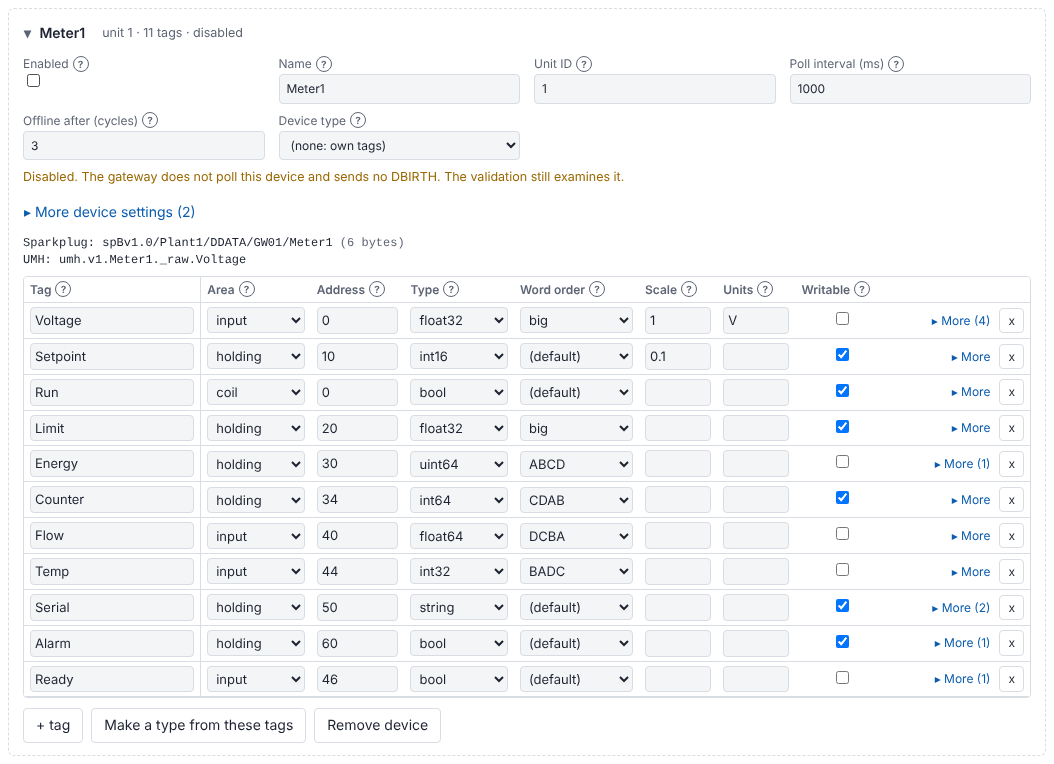
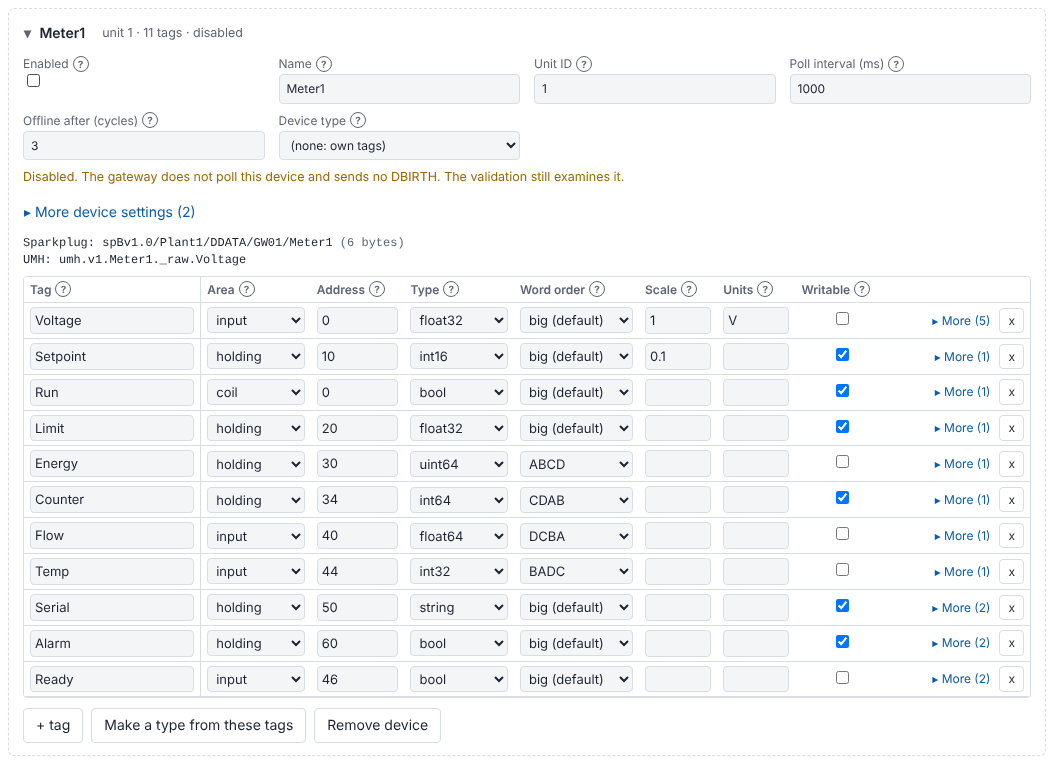
docs: screenshots with the default value in the selects; backup brokers on a phone
make_shots.sh again on the QEMU images of 2d6cf3b (PSRAM variant).
18 shots changed: each select of an optional key now shows its default
value, for example "3.1.1 (default)" and "info (default)". The new
shot backup-brokers-phone shows the backup brokers as blocks on a
phone. Its section is far down the Configuration tab, and the clip of
a full page missed it on a phone: the shot uses the element screenshot
of Playwright (Shot.own).

Refs #250

Claude-Session: https://claude.ai/code/session_0182b7AzJMbGWJjAgnmTTKgC

diff --git a/idf/tools/docs_shots.py b/idf/tools/docs_shots.py
@@ -543,7 +543,7 @@ def backup_brokers_phone(page):
     page.click('[data-ladd="bk"]')
     page.fill('[data-p="mqtt.backup_brokers.1.host"]', "10.0.0.20")
     page.fill('[data-p="mqtt.backup_brokers.1.port"]', "8884")
-    page.locator("#f-bk").scroll_into_view_if_needed()
+    page.evaluate("document.activeElement.blur()")
 
 
 def certificates_card(page):
@@ -752,6 +752,9 @@ class Shot:
     element: str = ""
     pad: int = 8
     full_page: bool = False
+    # #250: Playwright's own element shot (the element scrolled into the window, no @pad). On a
+    # phone, the clip of a full page missed a section far down the Configuration tab
+    own: bool = False
     auth: bool = True
     freeze_timers: bool = True
     freeze: dict = field(default_factory=dict)   # more FREEZE paths of /api/status, this shot only
@@ -994,7 +997,7 @@ SHOTS = [
              "in the gateway."),
     # #250: docs/reference/configuration.md (The list of brokers)
     Shot("backup-brokers-phone", "configured", PHONE, "/", actions=[backup_brokers_phone],
-         element='.card[data-cc="mqtt"] .tsec:has(#f-bk)', wait="#f-bk",
+         element='.card[data-cc="mqtt"] .tsec:has(#f-bk)', wait="#f-bk", own=True,
          alt="The section 'Backup brokers' of the card MQTT on a phone. Each broker is a block. "
              "The primary broker shows its host and the port 8883. Backup 1 has the host "
              "broker2.plant.local and an empty port that shows '8883 (the port of the primary "
@@ -1282,6 +1285,8 @@ def capture(browser, shot, auth, base):
             # the bar sticks to the bottom of the window, also over a card that is taller than the
             # window: keep it out of the image of a card
             page.add_style_tag(content="#bar{visibility:hidden}")
+            if shot.own:
+                return page.locator(shot.element).first.screenshot(**opts)
             box = page.locator(shot.element).first.bounding_box()
             # the box is relative to the viewport, the clip of a full page to the page: add the
             # scroll position (a click scrolls the page, and a reload keeps the position)
